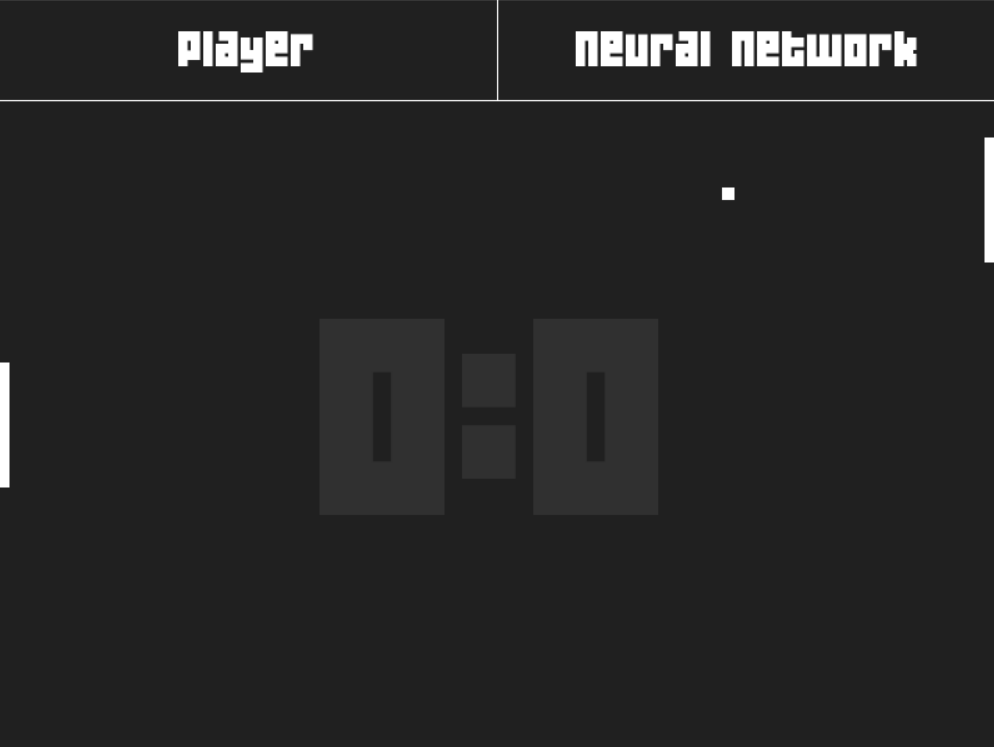
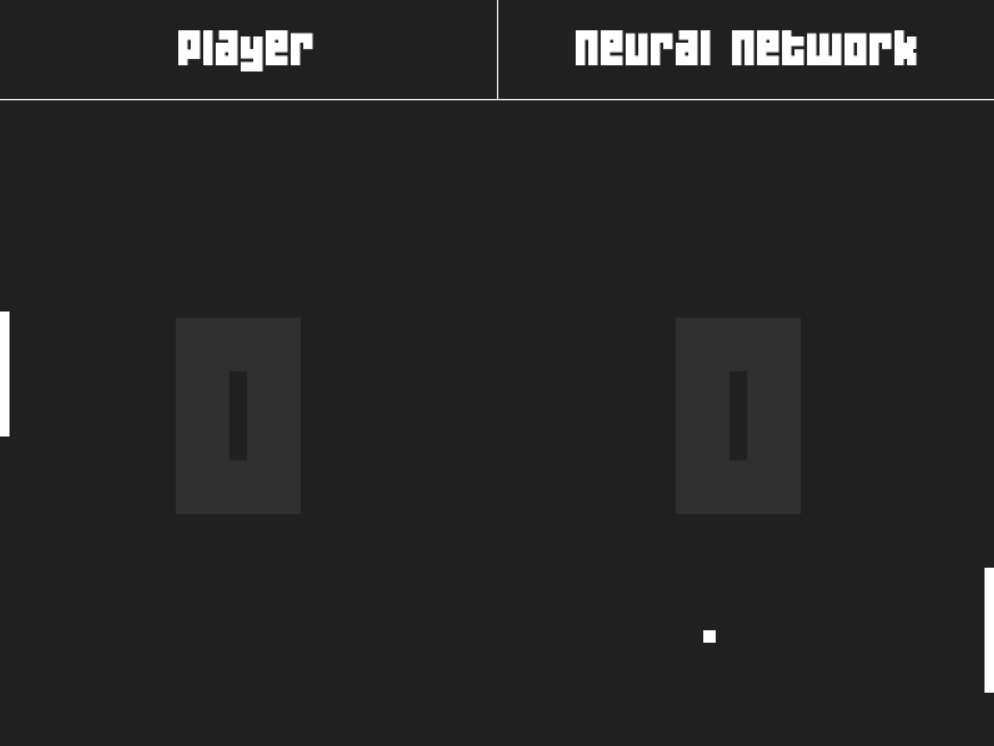
Alterar placar

diff --git a/lib/classes.py b/lib/classes.py
@@ -124,10 +124,12 @@ class Game:
         '''Método que desenha os textos do jogo.'''
         font1 = pygame.font.SysFont('04b19', 200)
         font2 = pygame.font.SysFont('04b19', 35)
-        pontos = font1.render(f'{self.jogador1_pontos}:{self.jogador2_pontos}', True, '#303030')
+        pontos_1 = font1.render(str(self.jogador1_pontos), True, '#303030')
+        pontos_2 = font1.render(str(self.jogador2_pontos), True, '#303030')
         player = font2.render('Player', True, 'white')
         neural_network = font2.render('Neural Network', True, 'white')
-        self.screen.blit(pontos, pontos.get_rect(center=(LARGURA / 2, (ALTURA + 80) / 2)))
+        self.screen.blit(pontos_1, pontos_1.get_rect(center=(LARGURA / 4, (ALTURA + 80) / 2)))
+        self.screen.blit(pontos_2, pontos_2.get_rect(center=(3 * LARGURA / 4, (ALTURA + 80) / 2)))
         self.screen.blit(player, player.get_rect(center=(LARGURA / 4, 40)))
         self.screen.blit(neural_network, neural_network.get_rect(center=(3 * LARGURA / 4, 40)))
     
